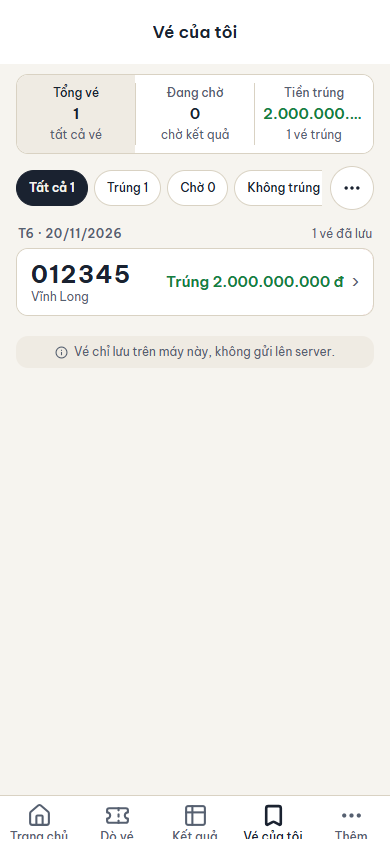
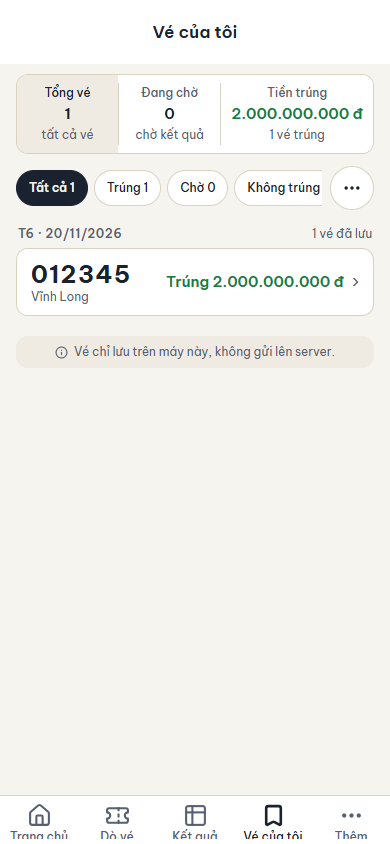
docs(repo): record T13.10 hash and refresh phase 13 screenshots

Changed region(s): [[0.0923, 0.0616, 0.9231, 0.1848]]

diff --git a/docs/progress/PROGRESS-13-final-hardening.md b/docs/progress/PROGRESS-13-final-hardening.md
@@ -1,7 +1,7 @@
 # PROGRESS 13 — Gia cố chốt hạ
 
 **Plan:** [`docs/plans/PLAN-13-final-hardening.md`](../plans/PLAN-13-final-hardening.md)
-**Tổng:** 12 / 15 task
+**Tổng:** 13 / 15 task
 
 | Task | Nội dung | Mức | Trạng thái | Commit | Ngày |
 |---|---|---|---|---|---|
@@ -15,7 +15,7 @@
 | T13.07 | Đài lỗi cấu trúc không kéo theo các đài khác | P2 | [x] | `c7a2ec4` | 2026-11-20 |
 | T13.08 | Ghi đè bản ghi kỳ quay chưa đủ số | P2 | [x] | `dacfc3a` | 2026-11-20 |
 | T13.09 | Truy vấn "mới nhất" không phân trang trong bộ nhớ | P2 | [ ] | | |
-| T13.10 | Tách phụ thuộc adapter khỏi `CheckTicketUseCase` | P3 | [ ] | | |
+| T13.10 | Tách phụ thuộc adapter khỏi `CheckTicketUseCase` | P3 | [x] | `77cd515` | 2026-11-20 |
 | T13.11 | Ổn định Metro/Jest trên máy ít RAM | P3 | [x] | `c83f0e6` | 2026-11-20 |
 | T13.13 | Ô "Tiền trúng" bị cắt chữ ở màn hẹp | P3 | [x] | `e272db9` | 2026-11-20 |
 | T13.14 | Chuyển `server.error.*` sang khoá Boot 4 `spring.web.error.*` | P2 | [x] | `bbb6553` | 2026-11-20 |
